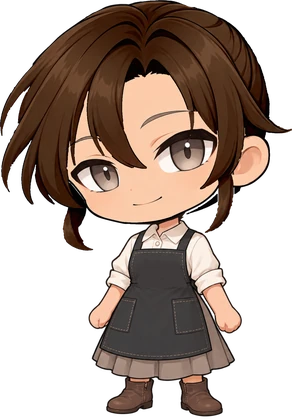
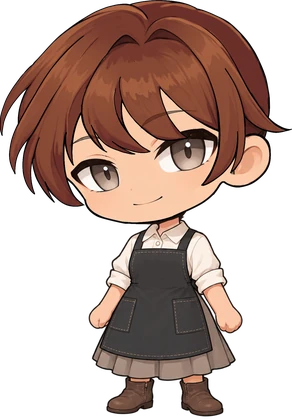
主人公の髪を完成版に差し替え、後ろ髪（ショート・ポニーテール）を選べるように
- 前髪3色を完成版に差し替え、後ろ髪パーツ（短髪・ポニーテール×3色）を追加
- 肌3×髪色3×後ろ髪2の18通りを書き出し
- 選択画面に「後ろ髪」の段を追加（ボブは絵ができたら LOOK_HAIRS に追加）

Claude-Session: https://claude.ai/code/session_019HikjRqqF1uwoUuf9cQ9QM

diff --git a/index.html b/index.html
@@ -3563,14 +3563,32 @@ const IMG={
 "SD_主人公_肌2": "img/sd_hero_s2.webp",
 "SD_主人公_肌3": "img/sd_hero_s3.webp",
 "SD_主人公_肌1_濃茶": "img/sd_hero_s1_濃茶.webp",
-"SD_主人公_肌1_黒": "img/sd_hero_s1_黒.webp",
 "SD_主人公_肌1_金": "img/sd_hero_s1_金.webp",
+"SD_主人公_肌1_黒": "img/sd_hero_s1_黒.webp",
+"SD_主人公_肌1_ポニーテール_濃茶": "img/sd_hero_s1_ポニーテール_濃茶.webp",
+"SD_主人公_肌1_ポニーテール_金": "img/sd_hero_s1_ポニーテール_金.webp",
+"SD_主人公_肌1_ポニーテール_黒": "img/sd_hero_s1_ポニーテール_黒.webp",
+"SD_主人公_肌1_短髪_濃茶": "img/sd_hero_s1_短髪_濃茶.webp",
+"SD_主人公_肌1_短髪_金": "img/sd_hero_s1_短髪_金.webp",
+"SD_主人公_肌1_短髪_黒": "img/sd_hero_s1_短髪_黒.webp",
 "SD_主人公_肌2_濃茶": "img/sd_hero_s2_濃茶.webp",
-"SD_主人公_肌2_黒": "img/sd_hero_s2_黒.webp",
 "SD_主人公_肌2_金": "img/sd_hero_s2_金.webp",
+"SD_主人公_肌2_黒": "img/sd_hero_s2_黒.webp",
+"SD_主人公_肌2_ポニーテール_濃茶": "img/sd_hero_s2_ポニーテール_濃茶.webp",
+"SD_主人公_肌2_ポニーテール_金": "img/sd_hero_s2_ポニーテール_金.webp",
+"SD_主人公_肌2_ポニーテール_黒": "img/sd_hero_s2_ポニーテール_黒.webp",
+"SD_主人公_肌2_短髪_濃茶": "img/sd_hero_s2_短髪_濃茶.webp",
+"SD_主人公_肌2_短髪_金": "img/sd_hero_s2_短髪_金.webp",
+"SD_主人公_肌2_短髪_黒": "img/sd_hero_s2_短髪_黒.webp",
 "SD_主人公_肌3_濃茶": "img/sd_hero_s3_濃茶.webp",
-"SD_主人公_肌3_黒": "img/sd_hero_s3_黒.webp",
 "SD_主人公_肌3_金": "img/sd_hero_s3_金.webp",
+"SD_主人公_肌3_黒": "img/sd_hero_s3_黒.webp",
+"SD_主人公_肌3_ポニーテール_濃茶": "img/sd_hero_s3_ポニーテール_濃茶.webp",
+"SD_主人公_肌3_ポニーテール_金": "img/sd_hero_s3_ポニーテール_金.webp",
+"SD_主人公_肌3_ポニーテール_黒": "img/sd_hero_s3_ポニーテール_黒.webp",
+"SD_主人公_肌3_短髪_濃茶": "img/sd_hero_s3_短髪_濃茶.webp",
+"SD_主人公_肌3_短髪_金": "img/sd_hero_s3_短髪_金.webp",
+"SD_主人公_肌3_短髪_黒": "img/sd_hero_s3_短髪_黒.webp",
 "家具_B1": "img/furn_B1.webp",
 "家具_B2": "img/furn_B2.webp",
 "家具_B3": "img/furn_B3.webp",
@@ -4427,10 +4445,10 @@ function startPrologue(o){o=o||{};const play=()=>o.turn?FX.pageTurn(()=>playChap
 function askName(cb){modal(`<h3>名前を入力してください</h3><p class="muted">物語の中で呼ばれる名前です（8文字まで）。</p><input type="text" id="nm" maxlength="8" value="カコ" placeholder="例：カコ"><div class="row"><button class="btn" id="nmok">決定</button></div>`);
  setTimeout(()=>{const n=$('#nm');if(n)n.focus()},50);
  $('#nmok').onclick=()=>{const v=$('#nm').value.trim();if(!v){toast('名前を入れてください');return}S.name=v;save();closeModal();cb()}}
-/* 主人公の外見。肌（skin）・髪色（color）を選ぶ。後ろ髪の長さ（hair）は絵ができたら選べるようにする。前髪は必ずある */
+/* 主人公の外見。肌（skin）・髪色（color）・後ろ髪（hair）を選ぶ。前髪は必ずある */
 const LOOK_SKINS=[{k:1,c:'#e6a072'},{k:2,c:'#f7c9a6'},{k:3,c:'#f9dcc6'}];
-const LOOK_COLORS=[{k:'濃茶',c:'#4a2a14'},{k:'黒',c:'#2a1820'},{k:'金',c:'#cdb29f'}];
-const LOOK_HAIRS=[]; // 後ろ髪の長さ（例：{k:'ボブ',n:'ボブ'}）。絵ができたら足す
+const LOOK_COLORS=[{k:'濃茶',c:'#7d4130'},{k:'黒',c:'#3a3a3a'},{k:'金',c:'#c8ab99'}];
+const LOOK_HAIRS=[{k:'短髪',n:'ショート'},{k:'ポニーテール',n:'ポニーテール'}]; // 後ろ髪。ボブは絵ができたら {k:'ボブ',n:'ボブ'} を足す
 function lookOf(){const l=S.look||{};return{skin:LOOK_SKINS.some(o=>o.k===l.skin)?l.skin:2,
  color:LOOK_COLORS.some(o=>o.k===l.color)?l.color:'濃茶',hair:LOOK_HAIRS.some(o=>o.k===l.hair)?l.hair:(LOOK_HAIRS[0]||{}).k||null}}
 /* 主人公のSDの絵の名前。肌_後ろ髪_色 → 肌_色 → 肌だけ、の順にあるものを使う */
